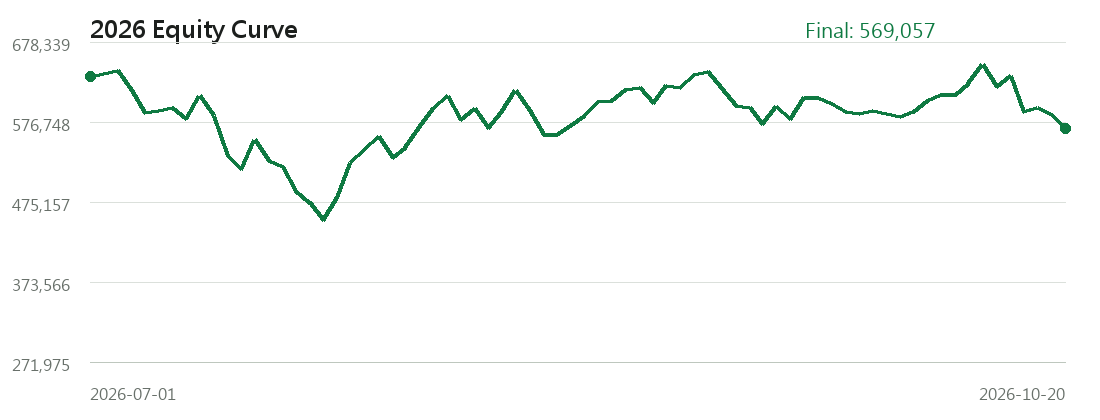
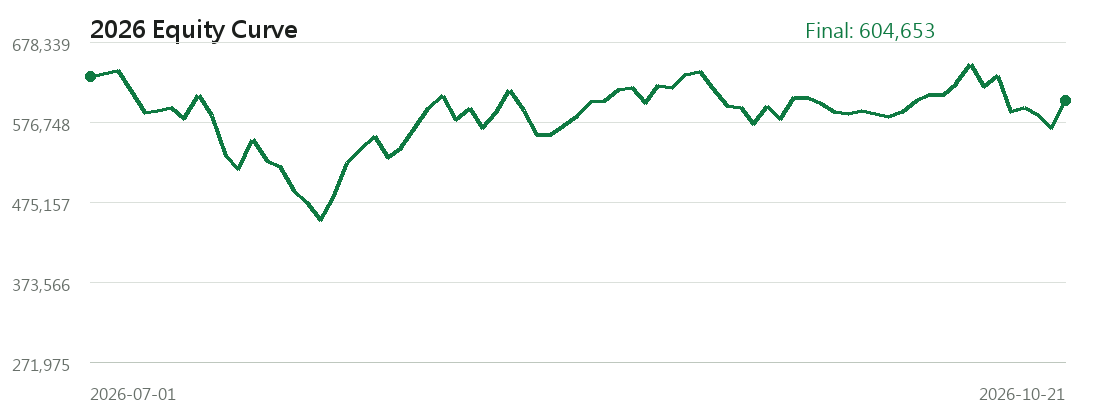
Update dashboard data

diff --git a/data.js b/data.js
@@ -1,5 +1,5 @@
 window.PUBLIC_FOLLOW_DATA = {
-  "generated_at": "2026-10-20T18:34:26.431302+08:00",
+  "generated_at": "2026-10-21T18:34:27.787844+08:00",
   "public_note": "Static follow dashboard only. Backend code, database, cache, and parameter search files are local-only.",
   "assumptions": {
     "initial_capital": 300000.0,
@@ -8,25 +8,25 @@ window.PUBLIC_FOLLOW_DATA = {
     "position_sizing": "Capital is split across up to 5 positions with integer-share sizing."
   },
   "data_status": {
-    "signal_date": "2026-10-20",
-    "latest_chip_date": "2026-10-20",
-    "latest_price_date": "2026-10-20",
-    "candidate_count": 1,
+    "signal_date": "2026-10-21",
+    "latest_chip_date": "2026-10-21",
+    "latest_price_date": "2026-10-21",
+    "candidate_count": 0,
     "warning": null
   },
   "metrics": {
     "initial_capital": 300000.0,
-    "final_value": 569056.8451972962,
-    "cash": 18554.547933197056,
-    "total_return_pct": 89.68561506576542,
-    "annualized_return_pct": 132.46791168883735,
+    "final_value": 604653.4534049989,
+    "cash": 18080.453404998814,
+    "total_return_pct": 101.55115113499961,
+    "annualized_return_pct": 150.98198380361265,
     "start_date": "2026-01-16",
-    "end_date": "2026-10-20",
-    "closed_trade_count": 82,
-    "entry_count": 83,
+    "end_date": "2026-10-21",
+    "closed_trade_count": 83,
+    "entry_count": 84,
     "open_position_count": 5,
-    "closed_trade_win_rate_pct": 47.5609756097561,
-    "average_closed_trade_return_pct": 0.27059965296718036,
+    "closed_trade_win_rate_pct": 48.19277108433735,
+    "average_closed_trade_return_pct": 0.2971341346996372,
     "max_drawdown_pct": -29.55548087303479,
     "performance_source": "actual_follow_account"
   },
@@ -462,6 +462,12 @@ window.PUBLIC_FOLLOW_DATA = {
       "equity": 569056.8451972962,
       "cash": 18554.547933197056,
       "position_count": 5
+    },
+    {
+      "date": "2026-10-21",
+      "equity": 604653.4534049989,
+      "cash": 18080.453404998814,
+      "position_count": 5
     }
   ],
   "holdings": [
@@ -471,11 +477,11 @@ window.PUBLIC_FOLLOW_DATA = {
       "quantity": 216,
       "entry_date": "2026-10-15",
       "entry_price": 560.0,
-      "current_price_date": "2026-10-20",
-      "current_price": 470.0,
-      "market_value": 101520.0,
-      "unrealized_return_pct": -16.07142857142857,
-      "holding_days": 5,
+      "current_price_date": "2026-10-21",
+      "current_price": 488.0,
+      "market_value": 105408.0,
+      "unrealized_return_pct": -12.857142857142856,
+      "holding_days": 6,
       "concept_tag_names": [
         "光通訊模組",
         "矽光子/CPO",
@@ -493,11 +499,11 @@ window.PUBLIC_FOLLOW_DATA = {
       "quantity": 254,
       "entry_date": "2026-10-15",
       "entry_price": 482.5,
-      "current_price_date": "2026-10-20",
-      "current_price": 428.0,
-      "market_value": 108712.0,
-      "unrealized_return_pct": -11.29533678756477,
-      "holding_days": 5,
+      "current_price_date": "2026-10-21",
+      "current_price": 470.5,
+      "market_value": 119507.0,
+      "unrealized_return_pct": -2.4870466321243567,
+      "holding_days": 6,
       "concept_tag_names": [
         "封測",
         "證券券商",
@@ -514,15 +520,14 @@ window.PUBLIC_FOLLOW_DATA = {
       "quantity": 242,
       "entry_date": "2026-10-20",
       "entry_price": 501.0,
-      "current_price_date": "2026-10-20",
-      "current_price": 469.5,
-      "market_value": 113619.0,
-      "unrealized_return_pct": -6.287425149700598,
-      "holding_days": 0,
+      "current_price_date": "2026-10-21",
+      "current_price": 482.0,
+      "market_value": 116644.0,
+      "unrealized_return_pct": -3.792415169660679,
+      "holding_days": 1,
       "concept_tag_names": [
         "PCB/銅箔進階材料",
         "證券券商",
-        "塑膠原料/樹脂",
         "工具機零組件",
         "投資控股",
         "晶圓製程設備零組件"
@@ -534,11 +539,11 @@ window.PUBLIC_FOLLOW_DATA = {
       "quantity": 84,
       "entry_date": "2026-10-20",
       "entry_price": 1395.0,
-      "current_price_date": "2026-10-20",
-      "current_price": 1330.0,
-      "market_value": 111720.0,
-      "unrealized_return_pct": -4.659498207885305,
-      "holding_days": 0,
+      "current_price_date": "2026-10-21",
+      "current_price": 1430.0,
+      "market_value": 120120.0,
+      "unrealized_return_pct": 2.508960573476693,
+      "holding_days": 1,
       "concept_tag_names": [
         "衛星通訊/寬頻設備",
         "證券券商",
@@ -549,107 +554,16 @@ window.PUBLIC_FOLLOW_DATA = {
       ]
     },
     {
-      "stock_id": "6770",
-      "company_name": "力積電",
-      "quantity": 1793,
-      "entry_date": "2026-10-20",
-      "entry_price": 64.69999694824219,
-      "current_price_date": "2026-10-20",
-      "current_price": 64.0999984741211,
-      "market_value": 114931.29726409912,
-      "unrealized_return_pct": -0.9273547178079045,
-      "holding_days": 0,
-      "concept_tag_names": [
-        "晶圓代工",
-        "證券券商",
-        "ASIC設計服務",
-        "利基型記憶體/Nor Flash",
-        "半導體IP/設計服務",
-        "塑膠原料/樹脂",
-        "工具機/自動化設備",
-        "投資控股",
-        "晶圓製程設備零組件",
-        "檢測設備/服務",
-        "記憶體",
-        "遊戲/VR裝置",
-        "遊戲/數位內容"
-      ]
-    }
-  ],
-  "trade_plan": {
-    "sell_orders": [
-      {
-        "stock_id": "6770",
-        "company_name": "力積電",
-        "quantity": 1793,
-        "price": 64.0999984741211,
-        "amount": 114931.29726409912,
-        "concept_tag_names": [
-          "晶圓代工",
-          "證券券商",
-          "ASIC設計服務",
-          "利基型記憶體/Nor Flash",
-          "半導體IP/設計服務",
-          "塑膠原料/樹脂",
-          "工具機/自動化設備",
-          "投資控股",
-          "晶圓製程設備零組件",
-          "檢測設備/服務",
-          "記憶體",
-          "遊戲/VR裝置",
-          "遊戲/數位內容"
-        ]
-      }
-    ],
-    "buy_orders": [
-      {
-        "stock_id": "2492",
-        "company_name": "華新科",
-        "quantity": 308,
-        "price": 369.0,
-        "amount": 113652.0,
-        "action": "SELL_WEAKEST_BUY_CANDIDATE",
-        "entry_date": null,
-        "concept_tag_names": [
-          "MLCC/被動元件",
-          "RF前端/功率放大器",
-          "被動元件",
-          "證券券商",
-          "化合物半導體/RF",
-          "工具機零組件",
-          "投資控股",
-          "晶圓製程設備零組件",
-          "磁磚/陶瓷建材",
-          "系統整合/資服",
-          "表面處理/塗佈材料",
-          "保護元件/電感"
-        ]
-      }
-    ],
-    "total_sell_amount": 114931.29726409912,
-    "total_buy_amount": 113652.0,
-    "starting_cash": 18554.547933197056,
-    "net_cash_change": 1279.297264099121,
-    "cash_after_plan": 19833.845197296178,
-    "needs_extra_cash": 0.0,
-    "remaining_cash": 19833.845197296178
-  },
-  "today_candidates": [
-    {
-      "rank": 1,
-      "signal_date": "2026-10-20",
       "stock_id": "2492",
       "company_name": "華新科",
-      "action": "SELL_WEAKEST_BUY_CANDIDATE",
-      "reference_price": 369.0,
-      "target_amount": 113811.36903945924,
-      "suggested_quantity": 308,
-      "buy_amount": 113652.0,
-      "sell_stock_id": "6770",
-      "sell_company_name": "力積電",
-      "sell_quantity": 1793,
-      "sell_current_price": 64.0999984741211,
-      "sell_market_value": 114931.29726409912,
+      "quantity": 308,
+      "entry_date": "2026-10-21",
+      "entry_price": 387.5,
+      "current_price_date": "2026-10-21",
+      "current_price": 405.5,
+      "market_value": 124894.0,
+      "unrealized_return_pct": 4.645161290322575,
+      "holding_days": 0,
       "concept_tag_names": [
         "MLCC/被動元件",
         "RF前端/功率放大器",
@@ -663,26 +577,31 @@ window.PUBLIC_FOLLOW_DATA = {
         "系統整合/資服",
         "表面處理/塗佈材料",
         "保護元件/電感"
-      ],
-      "sell_concept_tag_names": [
-        "晶圓代工",
-        "證券券商",
-        "ASIC設計服務",
-        "利基型記憶體/Nor Flash",
-        "半導體IP/設計服務",
-        "塑膠原料/樹脂",
-        "工具機/自動化設備",
-        "投資控股",
-        "晶圓製程設備零組件",
-        "檢測設備/服務",
-        "記憶體",
-        "遊戲/VR裝置",
-        "遊戲/數位內容"
-      ],
-      "action_text": "換股買進"
+      ]
     }
   ],
+  "trade_plan": {
+    "sell_orders": [],
+    "buy_orders": [],
+    "total_sell_amount": 0,
+    "total_buy_amount": 0,
+    "starting_cash": 18080.453404998814,
+    "net_cash_change": 0,
+    "cash_after_plan": 18080.453404998814,
+    "needs_extra_cash": 0.0,
+    "remaining_cash": 18080.453404998814
+  },
+  "today_candidates": [],
   "recent_entries": [
+    {
+      "stock_id": "2492",
+      "company_name": "華新科",
+      "entry_date": "2026-10-21",
+      "entry_price": 387.5,
+      "quantity": 308,
+      "cost": 119350.0,
+      "concept_tag_names": null
+    },
     {
       "stock_id": "8358",
       "company_name": "金居",
@@ -781,18 +700,22 @@ window.PUBLIC_FOLLOW_DATA = {
       "quantity": 1623,
       "cost": 126594.0,
       "concept_tag_names": null
-    },
-    {
-      "stock_id": "6715",
-      "company_name": "嘉基",
-      "entry_date": "2026-10-06",
-      "entry_price": 485.5,
-      "quantity": 251,
-      "cost": 121860.5,
-      "concept_tag_names": null
     }
   ],
   "recent_closed_trades": [
+    {
+      "stock_id": "6770",
+      "company_name": "力積電",
+      "entry_date": "2026-10-20",
+      "entry_price": 64.69999694824219,
+      "quantity": 1793,
+      "exit_date": "2026-10-21",
+      "exit_price": 66.30000305175781,
+      "exit_reason": "follow_signal_replace",
+      "return_pct": 2.472961636761095,
+      "holding_days": 1,
+      "concept_tag_names": null
+    },
     {
       "stock_id": "6510",
       "company_name": "精測",
@@ -934,19 +857,6 @@ window.PUBLIC_FOLLOW_DATA = {
       "exit_reason": "follow_signal_replace",
       "return_pct": -4.761904761904767,
       "holding_days": 6,
-      "concept_tag_names": null
-    },
-    {
-      "stock_id": "4770",
-      "company_name": "上品",
-      "entry_date": "2026-09-29",
-      "entry_price": 277.0,
-      "quantity": 417,
-      "exit_date": "2026-10-06",
-      "exit_price": 273.0,
-      "exit_reason": "follow_signal_replace",
-      "return_pct": -1.4440433212996373,
-      "holding_days": 7,
       "concept_tag_names": null
     }
   ]
